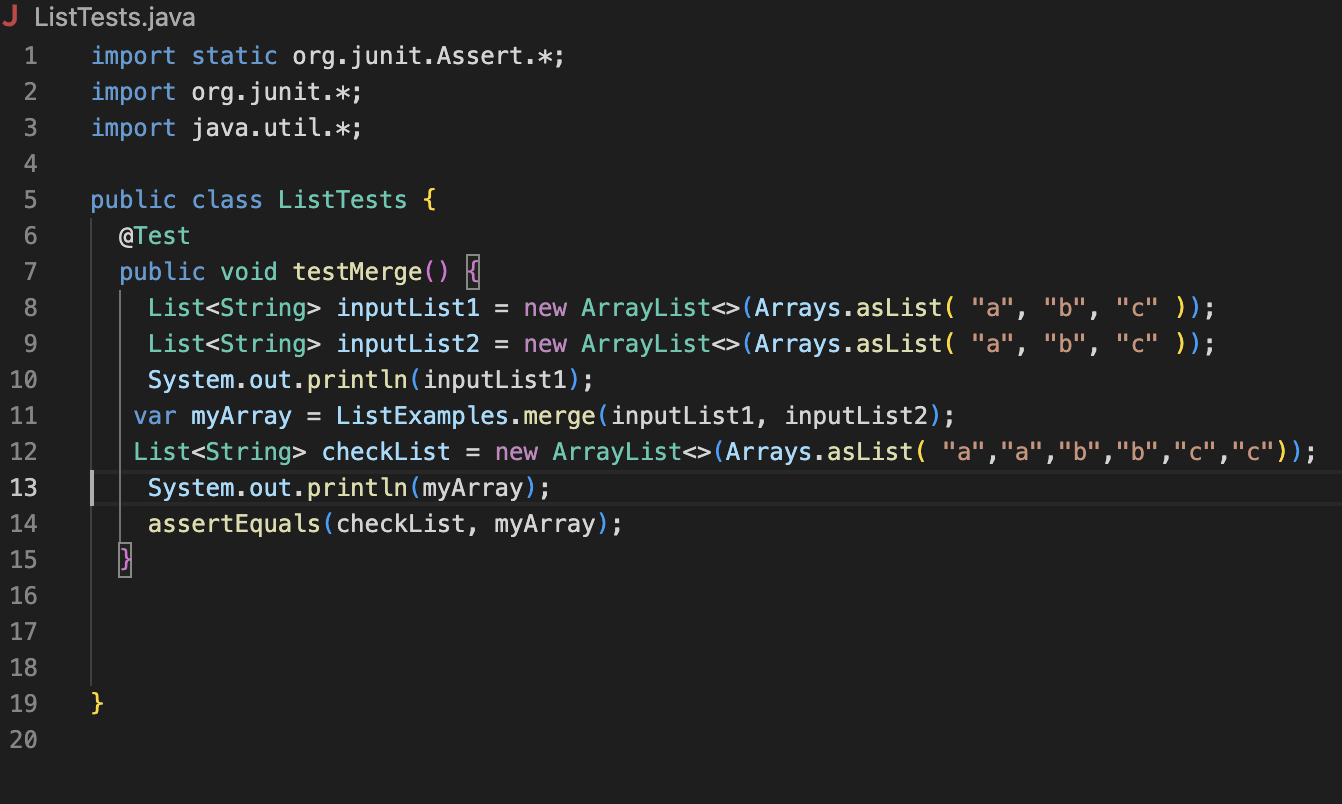
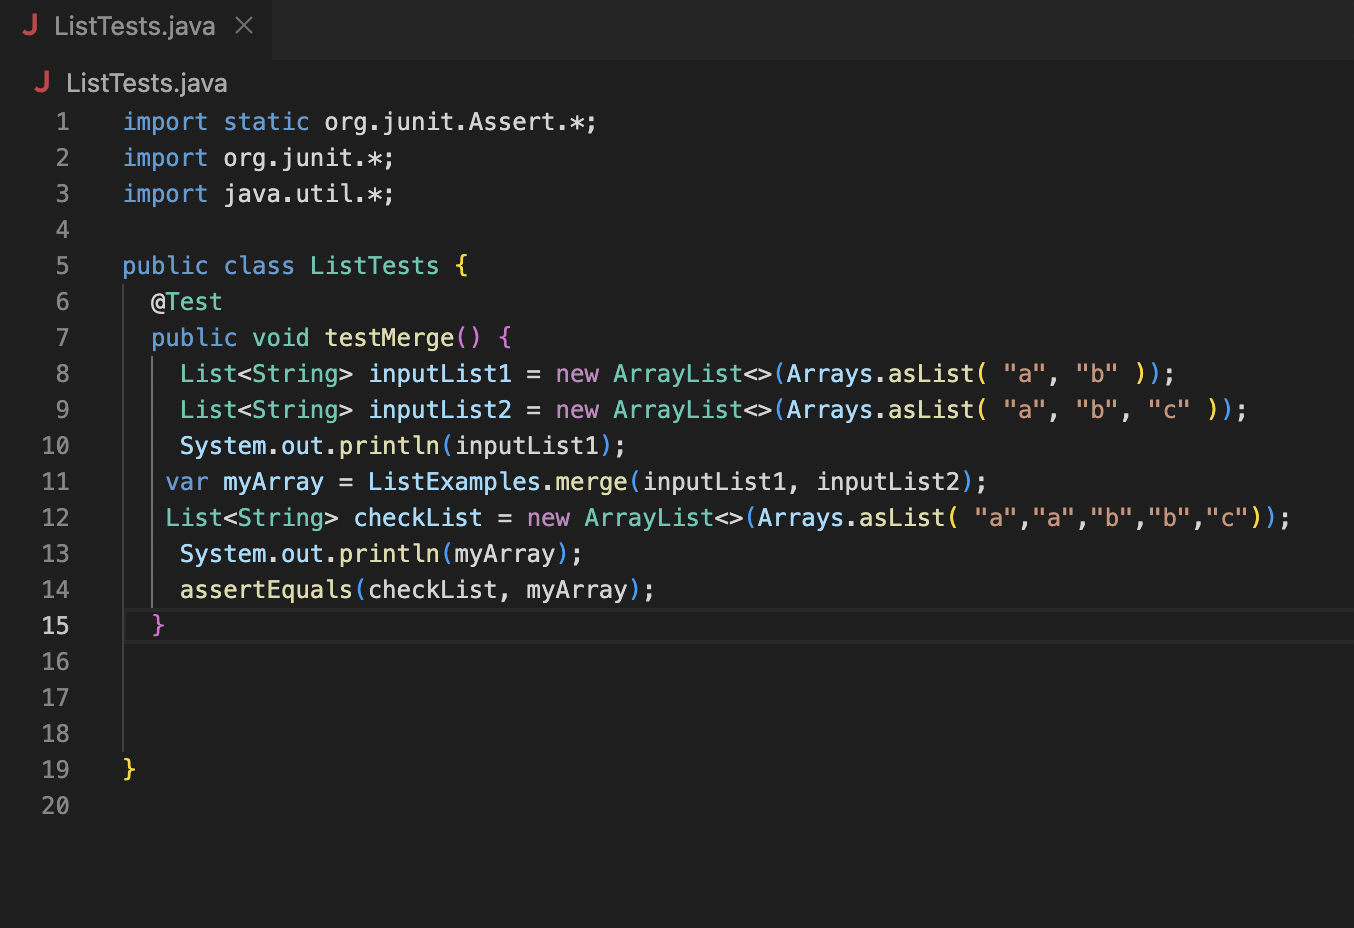
new pics and lab update

diff --git a/lab3.md b/lab3.md
@@ -3,9 +3,9 @@
 ## **Part 1**
 Search Engine Class implementation: 
 
-    import java.io.IOException;
-    import java.net.URI;
-    import java.util.*;
+        import java.io.IOException;
+        import java.net.URI;
+        import java.util.*;
 
 
             class Handler implements URLHandler {
@@ -78,7 +78,7 @@ Inputs and Outputs:
 
 ![Image](arrayunittest.png)
 
-2. In the List Example class, I wrote a test to check the merge function. I hypothesised that the failure would occur when two identical lists of length 3 were merged. I wrote the test to compare the expected output vs the actual output, and even though my test compiled it did not run and produce an output in terminal. 
+2. In the List Example class, I wrote a test to check the merge function. I hypothesised that the failure would occur when two lists, one of length 3 and one of length 2 were merged. I wrote the test to compare the expected output vs the actual output, and the test resulted in an "out of memory" java heap error. The symptom came from the line that compares the two arrays at the an index. The second list is checked at the second index but since the first list does not have a second index, it results in an error. The fix to this bug would be to set a max index value of the size of the array - 1 so that the function never checks for an index that does not exist. 
 
 ![Image](bug2function.png)
 ![Image](bug2output.png)
